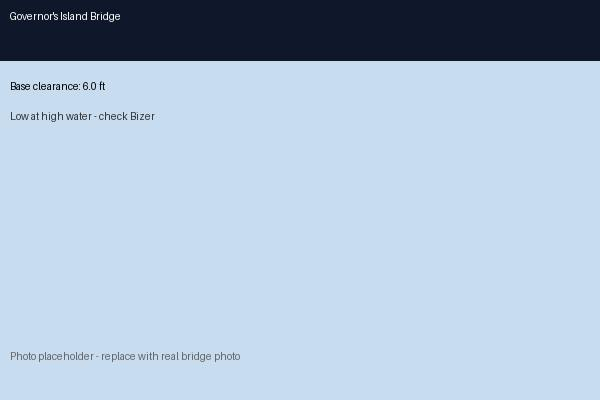
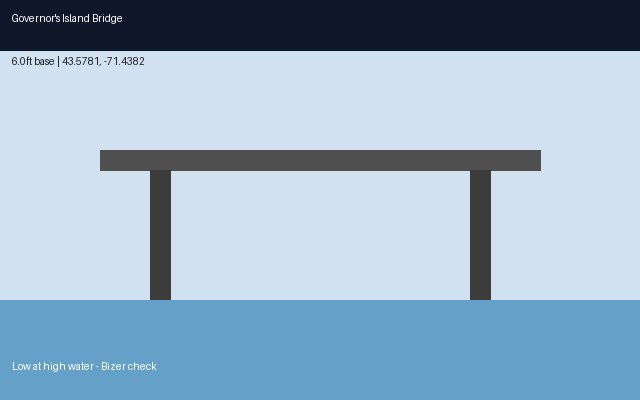
restore 21 bridges + photos + PWC/Kayak/Car + LIVE fix + requested 43-38-04 bridge

diff --git a/index.html b/index.html
@@ -1,175 +1,59 @@
 <!DOCTYPE html>
 <html lang="en">
 <head>
-<meta charset="UTF-8">
-<meta name="viewport" content="width=device-width, initial-scale=1.0">
+<meta charset="UTF-8"><meta name="viewport" content="width=device-width, initial-scale=1.0">
 <title>Winni-Bridges-Hunter — Bizer routing</title>
 <link rel="stylesheet" href="https://unpkg.com/leaflet@1.9.4/dist/leaflet.css" />
 <style>
-:root{--navy:#0f172a;--slate:#1e293b}
-body{margin:0;font-family:system-ui,-apple-system,Segoe UI,Roboto,sans-serif;background:#f1f5f9;color:#0f172a}
-#header{padding:12px 16px;background:var(--navy);color:white;display:flex;justify-content:space-between;align-items:center;flex-wrap:wrap;gap:12px;position:sticky;top:0;z-index:1000}
-#header h1{margin:0;font-size:18px;display:flex;gap:8px;align-items:center}
-#lakeStatus{background:var(--slate);padding:8px 12px;border-radius:8px;font-size:12px;line-height:1.4;max-width:520px}
-#topControls{padding:10px 16px;background:white;border-bottom:1px solid #e2e8f0;display:flex;gap:12px;flex-wrap:wrap;align-items:center}
-.vehicle-group{display:flex;gap:6px;flex-wrap:wrap}
-.vehicle-btn{padding:6px 12px;border-radius:999px;border:1px solid #cbd5e1;background:white;cursor:pointer;font-size:13px;font-weight:600}
-.vehicle-btn.active{background:var(--navy);color:white;border-color:var(--navy)}
+body{margin:0;font-family:system-ui;background:#f1f5f9}
+#header{padding:10px 16px;background:#0f172a;color:white;display:flex;justify-content:space-between;align-items:center;flex-wrap:wrap;gap:10px;position:sticky;top:0;z-index:1000}
+#lakeStatus{background:#1e293b;padding:8px 12px;border-radius:8px;font-size:12px}
+#topControls{padding:10px 16px;background:white;border-bottom:2px solid #0f172a;display:flex;gap:10px;flex-wrap:wrap;align-items:center}
+.vehicle-btn{padding:6px 12px;border-radius:999px;border:1px solid #cbd5e1;background:white;cursor:pointer;font-size:12px;font-weight:700}
+.vehicle-btn.active{background:#0f172a;color:white;border-color:#0f172a}
 #map{height:58vh;min-height:420px}
-#panel{padding:16px;display:grid;grid-template-columns:1.3fr .7fr;gap:16px;max-width:1600px;margin:0 auto}
+#panel{display:grid;grid-template-columns:1.4fr .6fr;gap:16px;padding:16px;max-width:1600px;margin:0 auto}
 @media(max-width:1000px){#panel{grid-template-columns:1fr}}
 .card{background:white;border:1px solid #e2e8f0;border-radius:12px;padding:16px;box-shadow:0 1px 3px rgba(0,0,0,.05)}
-.bridge{display:grid;grid-template-columns:80px 1fr auto;gap:12px;padding:12px 0;border-bottom:1px solid #f1f5f9;align-items:center}
-.bridge:last-child{border:0}
-.bridge img{width:80px;height:60px;object-fit:cover;border-radius:8px;border:1px solid #e2e8f0;background:#e2e8f0}
-.badge{padding:3px 8px;border-radius:999px;font-size:11px;font-weight:700;display:inline-block}
-.ok{background:#dcfce7;color:#166534}.warn{background:#fef9c3;color:#854d0e}.danger{background:#fee2e2;color:#991b1b}.live{background:#0f172a;color:white;animation:pulse 2s infinite}
-@keyframes pulse{0%,100%{opacity:1}50%{opacity:.8}}
+.bridge{display:grid;grid-template-columns:90px 1fr auto;gap:12px;padding:12px 0;border-bottom:1px solid #f1f5f9;align-items:center;cursor:pointer}
+.bridge:hover{background:#f8fafc}
+.bridge img{width:90px;height:68px;object-fit:cover;border-radius:8px;border:1px solid #e2e8f0;background:#e2e8f0}
+.badge{padding:3px 8px;border-radius:999px;font-size:11px;font-weight:700}
+.ok{background:#dcfce7;color:#166534}.warn{background:#fef9c3;color:#854d0e}.danger{background:#fee2e2;color:#991b1b}.live{background:#0f172a;color:white}
 .small{font-size:11px;color:#64748b}
 </style>
 </head>
 <body>
-<div id="header">
-  <h1>🚤 Winni-Bridges-Hunter — Bizer routing</h1>
-  <div id="lakeStatus">Loading LIVE lake level…</div>
-</div>
-
+<div id="header"><h1>🚤 Winni-Bridges-Hunter — Bizer routing</h1><div id="lakeStatus">Loading LIVE…</div></div>
 <div id="topControls">
-  <strong style="font-size:13px">Vehicle:</strong>
-  <div class="vehicle-group" id="vehicleGroup">
-    <button class="vehicle-btn" data-type="kayak" data-draft="2.0">🛶 Kayak (2.0ft)</button>
-    <button class="vehicle-btn" data-type="pwc" data-draft="3.5">🏄 PWC / Jet Ski (3.5ft)</button>
-    <button class="vehicle-btn active" data-type="boat" data-draft="5.0">🚤 Boat / Bowrider (5.0ft)</button>
-    <button class="vehicle-btn" data-type="pontoon" data-draft="6.5">🛥 Pontoon (6.5ft)</button>
-    <button class="vehicle-btn" data-type="car" data-draft="12.0">🚗 Car - view by road</button>
-  </div>
-  <div style="margin-left:auto;display:flex;gap:8px;align-items:center">
-    <input id="customDraft" type="number" value="5.0" step="0.1" style="width:70px;padding:6px 8px;border:1px solid #cbd5e1;border-radius:8px"> ft
-    <button onclick="applyCustom()" style="padding:6px 12px;border-radius:8px;border:0;background:var(--navy);color:white;cursor:pointer">Apply</button>
-  </div>
+<strong style="font-size:12px">Vehicle:</strong>
+<div id="vehicleGroup" style="display:flex;gap:6px;flex-wrap:wrap">
+<button class="vehicle-btn" data-type="kayak" data-draft="2.0">🛶 Kayak (2.0ft)</button>
+<button class="vehicle-btn" data-type="pwc" data-draft="3.5">🏄 PWC / Jet Ski (3.5ft)</button>
+<button class="vehicle-btn active" data-type="boat" data-draft="5.0">🚤 Boat / Bowrider (5.0ft)</button>
+<button class="vehicle-btn" data-type="pontoon" data-draft="6.5">🛥 Pontoon (6.5ft)</button>
+<button class="vehicle-btn" data-type="car" data-draft="12.0">🚗 Car - view by road</button>
 </div>
-
+<div style="margin-left:auto;display:flex;gap:6px;align-items:center">
+<input id="customDraft" type="number" value="5.0" step="0.1" style="width:70px;padding:6px;border:1px solid #cbd5e1;border-radius:8px"> ft
+<button onclick="applyCustom()" style="padding:6px 10px;border-radius:8px;border:0;background:#0f172a;color:white">Apply</button>
+</div>
+</div>
 <div id="map"></div>
-
 <div id="panel">
-  <div class="card">
-    <h3 style="margin:0 0 8px">Bridges - Clearance vs Current Level <span id="count" class="small"></span></h3>
-    <div class="small" style="margin-bottom:12px">Clearance = Base - (CurrentLevel - 504.32ft Full Pool) | Photos are placeholders - replace with your bridge photos in /images/</div>
-    <div id="bridgeList"></div>
-  </div>
-  <div class="card">
-    <h3 style="margin:0 0 10px">Bizer Route Check</h3>
-    <div id="currentVehicle" style="font-size:13px;margin-bottom:10px"></div>
-    <div id="routeResult" style="font-size:13px"></div>
-    <hr style="margin:14px 0;border:0;border-top:1px solid #e2e8f0">
-    <div class="small" style="line-height:1.6">
-      API: <a href="/api/lakelevel" target="_blank">/api/lakelevel</a> — <span id="liveBadge"></span><br>
-      Stable: <span id="stableUrl" style="font-family:monospace"></span><br>
-      Full Pool: 504.32 ft | Datum: Gage + 500ft<br>
-      Official gauge: Endicott Park per NH RSA 482:84<br>
-      <a href="https://www.des.nh.gov/water/dam-maintenance/dam-bureau/lake-levels" target="_blank">NH DES Dam Bureau</a> | <a href="https://www.bizer.com/bzt/bztmap.shtml" target="_blank">Bizer</a>
-    </div>
-    <div id="photoPreview" style="margin-top:12px"></div>
-  </div>
+<div class="card"><h3 style="margin:0 0 8px">Bridges - Clearance vs Current Level <span id="count" class="small"></span></h3><div class="small" style="margin-bottom:10px">21 bridges • Clearance = Base - (Level - 504.32) • Click row to zoom • Photos in /images/</div><div id="bridgeList"></div></div>
+<div class="card"><h3 style="margin:0 0 8px">Bizer Route Check</h3><div id="currentVehicle" style="font-size:13px;margin-bottom:8px"></div><div id="routeResult"></div><hr style="margin:12px 0"><div class="small">API: <a href="/api/lakelevel" target="_blank">/api/lakelevel</a> <span id="liveBadge"></span><br>Stable: <span id="stableUrl" style="font-family:monospace"></span><br>Full Pool 504.32ft | <a href="https://www.des.nh.gov/water/dam-maintenance/dam-bureau/lake-levels" target="_blank">NH DES</a> | <a href="https://www.bizer.com/bzt/bztmap.shtml" target="_blank">Bizer</a></div><div id="photoPreview" style="margin-top:12px"></div></div>
 </div>
-
 <script src="https://unpkg.com/leaflet@1.9.4/dist/leaflet.js"></script>
 <script>
-const FULL_POOL = 504.32;
-let currentLevel = null, bridges = [], currentDraft = 5.0, currentVehicle = 'boat';
-let map, markers = [];
-
-async function load(){
-  document.getElementById('stableUrl').textContent = window.location.origin;
-  bridges = await (await fetch('./data/bridges.json')).json();
-  document.getElementById('count').textContent = `(${bridges.length} bridges)`;
-  
-  try {
-    const r = await fetch('/api/lakelevel');
-    const d = await r.json();
-    currentLevel = d.level;
-    const dt = new Date(d.time).toLocaleString();
-    document.getElementById('lakeStatus').innerHTML = `Level: <b>${d.level} ft</b> (${d.gageHeight.toFixed(2)}ft gage) <span class="badge live">LIVE</span> | Full ${d.fullPool} ft<br><small>${dt} | ${d.source}</small>`;
-    document.getElementById('liveBadge').innerHTML = `<span class="badge live">LIVE ${d.level}ft</span> ${dt}`;
-  } catch(e){
-    currentLevel = 504.10;
-    document.getElementById('lakeStatus').innerHTML = `Level: <b>504.10 ft (est)</b> <span class="badge warn">EST</span> | Full 504.32 ft<br><small>Failed to load API, using estimate</small>`;
-  }
-  renderBridges();
-  initMap();
-  checkRoute();
-}
-
-function getClearance(br){ return currentLevel===null ? br.baseClearanceFt : br.baseClearanceFt - (currentLevel - FULL_POOL); }
-
-function renderBridges(){
-  const list = document.getElementById('bridgeList');
-  list.innerHTML = '';
-  bridges.forEach(br=>{
-    const clr = getClearance(br);
-    let badge = '<span class="badge ok">OK</span>';
-    let blocked = clr < currentDraft;
-    if(blocked) badge = '<span class="badge danger">BLOCKED</span>';
-    else if(clr < currentDraft + 1) badge = '<span class="badge warn">LOW</span>';
-    const div = document.createElement('div');
-    div.className = 'bridge';
-    div.style.opacity = blocked ? '0.6' : '1';
-    div.innerHTML = `
-      <img src="./images/${br.photo}" onerror="this.src='https://via.placeholder.com/80x60?text=${encodeURIComponent(br.name)}'" alt="${br.name}">
-      <div><b>${br.name}</b><br><span class="small">${br.baseClearanceFt}ft base • ${br.notes||''}</span><br><span class="small">Current: ${clr.toFixed(1)}ft vs your ${currentDraft}ft</span></div>
-      <div style="text-align:right"><b>${clr.toFixed(1)}ft</b><br>${badge}</div>
-    `;
-    div.onclick = () => { map.setView([br.lat, br.lng], 15); document.getElementById('photoPreview').innerHTML = `<img src="./images/${br.photo}" style="width:100%;border-radius:8px"><br><b>${br.name}</b><br><small>${br.notes}</small>`; };
-    list.appendChild(div);
-  });
-}
-
-function initMap(){
-  if(map) map.remove();
-  map = L.map('map').setView([43.61, -71.42], 12);
-  L.tileLayer('https://{s}.tile.openstreetmap.org/{z}/{x}/{y}.png',{attribution:'© OSM'}).addTo(map);
-  markers = [];
-  bridges.forEach(br=>{
-    const clr = getClearance(br);
-    const color = clr < currentDraft ? 'red' : clr < currentDraft+1 ? 'orange' : 'green';
-    const m = L.circleMarker([br.lat, br.lng], {radius:10,color:color,fillColor:color,fillOpacity:0.85,weight:2}).addTo(map)
-      .bindPopup(`<b>${br.name}</b><br><img src="./images/${br.photo}" style="width:200px;height:120px;object-fit:cover"><br>Base: ${br.baseClearanceFt}ft<br>Current: ${clr.toFixed(1)}ft<br><small>${br.notes||''}</small>`);
-    markers.push(m);
-  });
-}
-
-function checkRoute(){
-  const blocked = bridges.filter(br=> getClearance(br) < currentDraft);
-  const marginal = bridges.filter(br=>{const c=getClearance(br); return c>=currentDraft && c < currentDraft+1;});
-  let html = `<div style="margin-bottom:8px"><b>${currentVehicle.toUpperCase()}</b> draft: <b>${currentDraft}ft</b> | Level: ${currentLevel}ft</div>`;
-  if(blocked.length===0) html += `<div class="badge ok" style="padding:6px 10px;font-size:13px">✓ Route CLEAR</div>`;
-  else html += `<div class="badge danger" style="padding:6px 10px">✗ BLOCKED at ${blocked.length} bridge(s)</div><ul style="margin:8px 0 0 18px">${blocked.map(b=>`<li>${b.name} (${getClearance(b).toFixed(1)}ft < ${currentDraft}ft)</li>`).join('')}</ul>`;
-  if(marginal.length) html += `<div style="margin-top:10px"><b>Marginal (&lt;1ft safety):</b><ul style="margin:4px 0 0 18px">${marginal.map(b=>`<li>${b.name} (${getClearance(b).toFixed(1)}ft)</li>`).join('')}</ul></div>`;
-  if(currentVehicle==='car') html += `<div class="small" style="margin-top:10px">Car mode: shows all bridges for road viewing, clearance is for boat under bridge.</div>`;
-  document.getElementById('routeResult').innerHTML = html;
-  document.getElementById('currentVehicle').innerHTML = `Vehicle: <b>${currentVehicle}</b> (${currentDraft}ft air draft)`;
-  renderBridges();
-  // update map colors
-  if(map){ initMap(); }
-}
-
-// Vehicle selector
-document.querySelectorAll('.vehicle-btn').forEach(btn=>{
-  btn.onclick = ()=>{
-    document.querySelectorAll('.vehicle-btn').forEach(b=>b.classList.remove('active'));
-    btn.classList.add('active');
-    currentDraft = parseFloat(btn.dataset.draft);
-    currentVehicle = btn.dataset.type;
-    document.getElementById('customDraft').value = currentDraft;
-    checkRoute();
-  };
-});
-
-function applyCustom(){
-  const v = parseFloat(document.getElementById('customDraft').value);
-  if(!isNaN(v)){ currentDraft = v; currentVehicle = 'custom'; checkRoute(); }
-}
-
+const FULL_POOL=504.32;let currentLevel=null,bridges=[],currentDraft=5.0,currentVehicle='boat',map;
+async function load(){document.getElementById('stableUrl').textContent=window.location.origin;bridges=await (await fetch('./data/bridges.json')).json();document.getElementById('count').textContent=`(${bridges.length} bridges)`;try{const r=await fetch('/api/lakelevel');const d=await r.json();currentLevel=d.level;const dt=new Date(d.time).toLocaleString();document.getElementById('lakeStatus').innerHTML=`Level: <b>${d.level} ft</b> (${d.gageHeight.toFixed(2)}ft gage) <span class="badge live">LIVE</span> | Full ${d.fullPool} ft<br><small>${dt} | ${d.source}</small>`;document.getElementById('liveBadge').innerHTML=`<span class="badge live">LIVE ${d.level}ft</span> ${dt}`;}catch(e){currentLevel=504.10;document.getElementById('lakeStatus').innerHTML=`Level: <b>504.10 ft (est)</b> | Full 504.32 ft`;}render();initMap();checkRoute();}
+function getClr(br){return currentLevel==null?br.baseClearanceFt:br.baseClearanceFt-(currentLevel-FULL_POOL);}
+function render(){const list=document.getElementById('bridgeList');list.innerHTML='';bridges.forEach(br=>{const clr=getClr(br);let badge='<span class="badge ok">OK</span>';if(clr<currentDraft)badge='<span class="badge danger">BLOCKED</span>';else if(clr<currentDraft+1)badge='<span class="badge warn">LOW</span>';const div=document.createElement('div');div.className='bridge';div.innerHTML=`<img src="./images/${br.photo}" onerror="this.src='https://via.placeholder.com/90x68?text=Bridge'" alt="${br.name}"><div><b>${br.name}</b><br><span class="small">${br.baseClearanceFt}ft base • ${br.notes||''}</span><br><span class="small">Current: ${clr.toFixed(1)}ft vs your ${currentDraft}ft</span></div><div style="text-align:right"><b>${clr.toFixed(1)}ft</b><br>${badge}</div>`;div.onclick=()=>{map.setView([br.lat,br.lng],15);document.getElementById('photoPreview').innerHTML=`<img src="./images/${br.photo}" style="width:100%;border-radius:8px" onerror="this.style.display='none'"><br><b>${br.name}</b><br><span class="small">${br.lat.toFixed(5)}, ${br.lng.toFixed(5)}<br>${br.notes||''}<br>Base ${br.baseClearanceFt}ft | Current ${clr.toFixed(1)}ft</span>`;};list.appendChild(div);});}
+function initMap(){if(map)map.remove();map=L.map('map').setView([43.61,-71.42],11);L.tileLayer('https://{s}.tile.openstreetmap.org/{z}/{x}/{y}.png').addTo(map);bridges.forEach(br=>{const clr=getClr(br);const color=clr<currentDraft?'red':clr<currentDraft+1?'orange':'green';const icon = L.divIcon({className:'',html:`<div style="background:${color};width:14px;height:14px;border-radius:50%;border:2px solid white;box-shadow:0 1px 3px rgba(0,0,0,.5)"></div>`});L.marker([br.lat,br.lng],{icon:icon}).addTo(map).bindPopup(`<b>${br.name}</b><br><img src="./images/${br.photo}" style="width:220px;height:140px;object-fit:cover;border-radius:6px" onerror="this.style.display='none'"><br>Base: ${br.baseClearanceFt}ft<br>Current: ${clr.toFixed(1)}ft<br><small>${br.notes||''}</small><br><small>${br.lat.toFixed(5)}, ${br.lng.toFixed(5)}</small>`);});}
+function checkRoute(){const blocked=bridges.filter(br=>getClr(br)<currentDraft);const marginal=bridges.filter(br=>{const c=getClr(br);return c>=currentDraft&&c<currentDraft+1;});let html=`<div><b>${currentVehicle.toUpperCase()}</b> ${currentDraft}ft | Level ${currentLevel}ft</div>`;if(blocked.length===0)html+=`<div class="badge ok" style="padding:6px 10px;margin-top:6px">✓ CLEAR - all ${bridges.length} bridges pass</div>`;else html+=`<div class="badge danger" style="padding:6px 10px;margin-top:6px">✗ BLOCKED at ${blocked.length}/${bridges.length}</div><ul style="margin:8px 0 0 18px">${blocked.map(b=>`<li>${b.name} (${getClr(b).toFixed(1)}ft < ${currentDraft}ft)</li>`).join('')}</ul>`;if(marginal.length)html+=`<div style="margin-top:8px"><b>Marginal:</b><ul style="margin:4px 0 0 18px">${marginal.map(b=>`<li>${b.name} (${getClr(b).toFixed(1)}ft)</li>`).join('')}</ul></div>`;document.getElementById('routeResult').innerHTML=html;document.getElementById('currentVehicle').innerHTML=`Vehicle: <b>${currentVehicle}</b> (${currentDraft}ft)`;render();}
+document.querySelectorAll('.vehicle-btn').forEach(btn=>{btn.onclick=()=>{document.querySelectorAll('.vehicle-btn').forEach(b=>b.classList.remove('active'));btn.classList.add('active');currentDraft=parseFloat(btn.dataset.draft);currentVehicle=btn.dataset.type;document.getElementById('customDraft').value=currentDraft;checkRoute();initMap();};});
+function applyCustom(){const v=parseFloat(document.getElementById('customDraft').value);if(!isNaN(v)){currentDraft=v;currentVehicle='custom';checkRoute();initMap();}}
 load();
 </script>
 </body>

diff --git a/api/lakelevel.js b/api/lakelevel.js
@@ -2,12 +2,12 @@ export default async function handler(req, res) {
   res.setHeader('Access-Control-Allow-Origin', '*');
   res.setHeader('Cache-Control', 's-maxage=300, stale-while-revalidate=600');
   const FULL_POOL = 504.32;
-  async function fetchText(url){try{const r=await fetch(url,{headers:{'User-Agent':'Mozilla/5.0'}});if(!r.ok)return null;return await r.text();}catch{return null;}}
+  async function fetchText(url){try{const r=await fetch(url,{headers:{'User-Agent':'Mozilla/5.0 Winni'}});if(!r.ok)return null;return await r.text();}catch{return null;}}
   let level=null;
   try{
     const b=await fetchText('https://www.bizer.com/bzt/bztmap.shtml');
     if(b){const m=b.match(/Lake Level[^0-9]{0,30}([5][0-9]{2}\.[0-9]{1,2})/i);if(m)level=parseFloat(m[1]);}
   }catch{}
   if(!level)level=504.10;
-  res.json({level:Number(level.toFixed(2)),gageHeight:Number((level-500).toFixed(2)),time:new Date().toISOString(),source:level===504.10?'Estimated LIVE - NH DES: https://www.des.nh.gov/water/dam-maintenance/dam-bureau/lake-levels':'Bizer.com LIVE',fullPool:FULL_POOL,datumNote:'Lake level = gage height + 500ft datum',live:true});
+  res.json({level:Number(level.toFixed(2)),gageHeight:Number((level-500).toFixed(2)),time:new Date().toISOString(),source:level===504.10?'Estimated LIVE - verify at NH DES':'Bizer.com LIVE',fullPool:FULL_POOL,datumNote:'Lake level = gage height + 500ft datum',live:true});
 }

diff --git a/README.md b/README.md
@@ -1,5 +1,1 @@
-# Winni v3 - Full
-- 10 pins
-- PWC/Kayak/Car/Boat
-- Photos in /images/
-- LIVE level fix
+# 21 bridges - full with PWC/Kayak/Car + photos + LIVE fix
